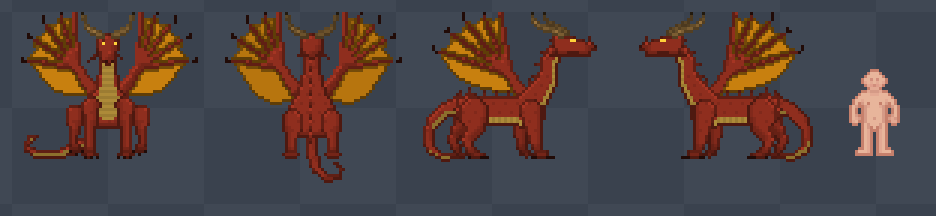
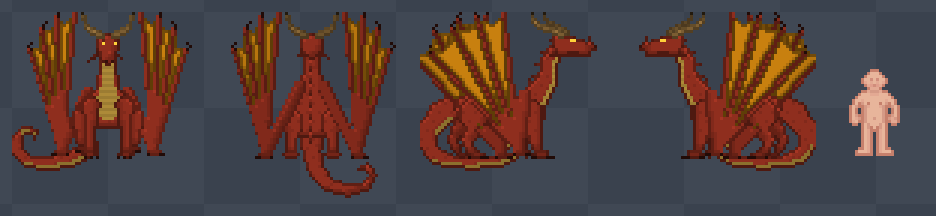
Rework SkyWing wings, front-view hind legs and tail
- Wings now fold the way SkyWings rest: a thick wing arm from the shoulder to a clawed palm
  on the ground, and four finger bones rising from the palm up and back past the hips. The
  membrane sits only between the fingers, so the lobe under the wing is gone.
- The Wings layer now draws over the body and legs (under the head). In side views the near
  wing lies over the flank and the far wing peeks out behind it; in the front view the art
  cuts away whatever the body covers.
- Front view: hind legs tucked behind the forelegs, showing only their outer edge and feet.
- Tail is longer (runs along the ground and curls) and 1.5x thicker.

Changed region(s): [[0.0, 0.0556, 0.5887, 0.9167], [0.7436, 0.0556, 0.8985, 0.8056]]

diff --git a/Tools/_WoF/skywing_sprites.js b/Tools/_WoF/skywing_sprites.js
@@ -237,11 +237,11 @@ const LIMB = {
   handS: () => M().ellipse(26, 47.2, 2.6, 1.4),
   handE_near: () => M().ellipse(40.5, 47.4, 2.7, 1.4),
   handE_far: () => M().ellipse(35.5, 47.4, 2.3, 1.2),
-  legS: () => M().ellipse(21, 35, 3.4, 4.5).chain([[21, 38, 2.4], [20.5, 42, 1.8], [21, 44.5, 1.5]]),
+  legS: () => M().ellipse(22.5, 36, 2.8, 4).chain([[22.8, 39, 2], [23, 43, 1.6]]), // behind the foreleg; only the outer edge shows
   legN: () => M().ellipse(38.5, 37, 3.6, 5).chain([[38.5, 40, 2.6], [39, 44, 2], [39, 46, 1.8]]),
   legE_near: () => M().ellipse(18, 34, 5, 6).chain([[19, 38, 3.2], [15.5, 42.5, 2.2], [17, 46, 1.8]]),
   legE_far: () => M().chain([[14, 37, 3], [11, 42.5, 2], [12.5, 46, 1.6]]),
-  footS: () => M().ellipse(21, 45.8, 2.2, 1.1),
+  footS: () => M().ellipse(23.4, 45.6, 2.1, 1),
   footN: () => M().ellipse(39, 47.5, 2.6, 1.4),
   footE_near: () => M().ellipse(19, 47.6, 2.8, 1.3),
   footE_far: () => M().ellipse(14, 47.6, 2.4, 1.1),
@@ -250,7 +250,7 @@ const CLAWS = {
   handS: [[24, 48], [26, 48], [28, 48]],
   handE_near: [[43, 48], [44, 48], [42, 48]],
   handE_far: [[37, 48], [38, 48]],
-  footS: [[19, 46], [21, 47], [23, 46]],
+  footS: [[21, 46], [22, 46]],
   footE_near: [[21, 48], [22, 48], [20, 48]],
   footE_far: [[16, 48], [17, 48]],
 };
@@ -269,52 +269,79 @@ function limb(kind, side, dir) {
   return limb(kind, side === 'r' ? 'l' : 'r', 'E').mirrored();
 }
 
-// ---- Wings (Wings layer, behind the body). Folded upright: a short arm from the shoulder to the wrist,
-// then five long finger bones fanning up and back, each ending in a hooked claw. The membrane between
-// fingertips is scalloped (pulled in toward the wrist) and its trailing edge runs back down to the hips.
-// Two layers: bone (scale coloured) and membrane.
-function wingSide(sh, wr, tips, trail) {
+// ---- Wings (Wings layer, drawn above the body and legs but under the head). Folded the way SkyWings
+// rest: a thick wing arm runs from the shoulder down to the wrist ("palm"), which rests on the ground with
+// small claws. Four long finger bones rise from the palm, up and back past the hips, each ending in a hooked
+// claw. Membrane fills only the space between the fingers (scalloped at the tips) and ends at the last
+// finger. Two layers: bone (scale coloured) and membrane.
+// Side views: the near wing lies over the flank; the far wing shows behind it, a tone darker.
+// Front view: the wings stand behind the shoulders, so anything the body covers is cut away.
+// Back view: the folded wings lie over the back.
+function wingShape({ sh, palm, tips }, dx = 0, dy = 0) {
+  const mv = ([x, y]) => [x + dx, y + dy];
+  sh = mv(sh); palm = mv(palm); tips = tips.map(mv);
   const bone = M(), mem = M(), claws = [];
-  const poly = [sh, wr, tips[0]];
+  const poly = [palm, tips[0]];
   for (let i = 1; i < tips.length; i++) {
     const a = tips[i - 1], b = tips[i];
-    poly.push([lerp(lerp(a[0], b[0], 0.5), wr[0], 0.1), lerp(lerp(a[1], b[1], 0.5), wr[1], 0.1)], b);
+    poly.push([lerp(lerp(a[0], b[0], 0.5), palm[0], 0.06), lerp(lerp(a[1], b[1], 0.5), palm[1], 0.06)], b);
   }
-  mem.poly([...poly, ...trail]);
-  bone.capsule(...sh, 2.2, ...wr, 1.7);
-  tips.forEach((t, i) => { bone.capsule(...wr, i === 0 ? 1.3 : 0.95, ...t, i === 0 ? 0.65 : 0.5); claws.push([t, [t[0] - wr[0], t[1] - wr[1]]]); });
-  return { bone, mem, claws };
-}
-const WING_E = { sh: [35, 28], wr: [30, 21], tips: [[27, 0.5], [21, 1], [15, 3], [10, 7], [6, 13]], trail: [[9, 18], [14, 23], [21, 26], [28, 27]] };
-const WING_S = { sh: [27, 26], wr: [22, 19], tips: [[21, 0.5], [16, 1], [11, 4], [7, 9], [5, 16]], trail: [[9, 21], [13, 26], [19, 28], [25, 28]] };
-const WING_N = { sh: [27, 26], wr: [22, 19], tips: [[21, 0.5], [16, 1], [11, 4], [7, 9], [5, 16]], trail: [[9, 22], [13, 28], [19, 31], [26, 30]] };
-
-function wingParts(dir) {
-  if (dir === 'W') { const e = wingParts('E'); return { bone: e.bone.mirrored(), mem: e.mem.mirrored() }; }
-  const spec = dir === 'E' ? WING_E : dir === 'S' ? WING_S : WING_N;
-  const s = wingSide(spec.sh, spec.wr, spec.tips, spec.trail);
-  let bone = s.bone, mem = s.mem, claws = s.claws;
-  if (dir !== 'E') {
-    bone = bone.clone().union(s.bone.mirrored()); mem = mem.clone().union(s.mem.mirrored());
-    claws = claws.concat(s.claws.map(([t, d]) => [[N - t[0], t[1]], [-d[0], d[1]]]));
-  }
+  mem.poly(poly);
+  bone.capsule(...sh, 2.4, ...palm, 1.8);          // wing arm
+  bone.ellipse(palm[0], palm[1], 2.2, 1.4);         // palm resting on the ground
+  tips.forEach((t, i) => { bone.capsule(...palm, 1.1, ...t, i === 0 ? 0.8 : 0.72); claws.push([t, [t[0] - palm[0], t[1] - palm[1]]]); });
   mem.minus(bone);
-  const bonePic = shade(bone, { thin: true });
-  for (const [t, d] of claws) claw(bonePic, Math.round(t[0] - 0.5), Math.round(t[1] - 0.5), d[0], d[1], d[0] < 0 ? 1 : -1);
-  return { bone: bonePic, mem };
+  return { bone, mem, claws, palm };
 }
-function wings(dir) {
-  const { bone, mem } = wingParts(dir);
-  const memPic = shade(mem, { flat: true });
-  const boneMask = M(); for (let i = 0; i < N * N; i++) if (bone.v[i] >= 0) boneMask.a[i] = 1;
-  mem.interior().each((x, y) => {
+// The palm sits on the ground (row ~47) behind the near foreleg in side view, outside the legs front and back.
+const WING_E = { sh: [35, 28], palm: [33, 46.6], tips: [[28, 0.5], [19, 2], [11, 6], [4, 14]] };
+const WING_S = { sh: [25.5, 27], palm: [16.5, 46.4], tips: [[21, 0.5], [15, 2], [10, 6], [6, 13]] };
+const WING_N = { sh: [28, 25], palm: [16.5, 47.6], tips: [[21, 0.5], [15, 2], [10, 6], [6, 13]] };
+
+// Everything that stands in front of the wings in the front view.
+function frontOccluder() {
+  const m = torsoMask('S').union(headMask('S'));
+  for (const k of ['armS', 'handS', 'legS', 'footS']) { const l = LIMB[k](); m.union(l).union(l.mirrored()); }
+  return m;
+}
+const maskOfPic = p => { const m = M(); for (let i = 0; i < N * N; i++) if (p.v[i] >= 0) m.a[i] = 1; return m; };
+const clearMask = (p, m) => { m.each((x, y) => p.set(x, y, -1)); return p; };
+
+function wingPics(w, far, hide) {
+  if (hide) { w.bone.minus(hide); w.mem.minus(hide); }
+  const bone = shade(w.bone, { thin: true, far });
+  for (const [t, d] of w.claws) claw(bone, Math.round(t[0] - 0.5), Math.round(t[1] - 0.5), d[0], d[1], d[0] < 0 ? 1 : -1);
+  for (const p of w.palms) { const x = Math.round(p[0] - 0.5), y = Math.round(p[1] - 0.5), s = p[2]; bone.dot([[x + 2 * s, y + 1], [x + 3 * s, y + 1], [x - 2 * s, y + 1]], T.claw); }
+  if (hide) clearMask(bone, hide);
+  const mem = shade(w.mem, { flat: true });
+  const boneMask = maskOfPic(bone);
+  w.mem.interior().each((x, y) => {
     const nearBone = [[1, 0], [-1, 0], [0, 1], [0, -1], [1, 1], [-1, 1]].some(([a, b]) => boneMask.has(x + a, y + b));
-    if (nearBone) memPic.set(x, y, T.base);
-    else if (stepsOut(mem, x, y, 0, 1, 3) <= 1) memPic.set(x, y, 234);
-    else memPic.set(x, y, T.light);
+    mem.set(x, y, nearBone ? T.base : T.light);
   });
-  if (dir === 'N') for (let i = 0; i < N * N; i++) if (memPic.v[i] > T.outlineHi) memPic.v[i] -= 18; // seen from behind
-  return { bone, membrane: memPic };
+  if (far) for (let i = 0; i < N * N; i++) if (mem.v[i] > T.outlineHi) mem.v[i] -= 18;
+  return { bone, membrane: mem };
+}
+// s = which way the palm claws point (+1 = toward +x)
+const withPalms = (w, s) => ({ ...w, palms: [[w.palm[0], w.palm[1], s]] });
+function mirrorShape(w) { return { bone: w.bone.mirrored(), mem: w.mem.mirrored(), claws: w.claws.map(([t, d]) => [[N - t[0], t[1]], [-d[0], d[1]]]), palm: [N - w.palm[0], w.palm[1]] }; }
+
+function wings(dir) {
+  if (dir === 'W') { const e = wings('E'); return { bone: e.bone.mirrored(), membrane: e.membrane.mirrored() }; }
+  if (dir === 'E') {
+    const near = withPalms(wingShape(WING_E), 1), farW = withPalms(wingShape(WING_E, -6, 1), 1);
+    const hide = torsoMask('E').union(headMask('E')).union(near.bone).union(near.mem);
+    const f = wingPics(farW, true, hide), n = wingPics(near, false);
+    return { bone: f.bone.over(n.bone), membrane: f.membrane.over(n.membrane) };
+  }
+  const left = wingShape(dir === 'S' ? WING_S : WING_N), right = mirrorShape(left);
+  const both = {
+    bone: left.bone.clone().union(right.bone), mem: left.mem.clone().union(right.mem),
+    claws: left.claws.concat(right.claws), palms: [[left.palm[0], left.palm[1], -1], [right.palm[0], right.palm[1], 1]],
+  };
+  both.mem.minus(both.bone);
+  if (dir === 'S') return wingPics(both, false, frontOccluder());
+  return wingPics(both, true, headMask('N'));
 }
 
 // ---- Horns (HeadTop): long, curved, sweeping back and then up.
@@ -330,13 +357,15 @@ function horns(dir) {
   return shade(m, { far: dir === 'N' }).dot([[23, 0], [40, 0]], T.claw);
 }
 
-// ---- Tail (Tail layer, behind the body): long, thin, curling at the tip. Scales + underside layers.
+// ---- Tail (Tail layer, behind the body): long and thin, trailing along the ground and curling at the tip. Scales + underside layers.
+const TAIL_THICKNESS = 1.5; // multiplies every tail radius
 function tailMask(dir) {
   if (dir === 'W') return tailMask('E').mirrored();
-  const m = M();
-  if (dir === 'E') return m.chain([[13, 31, 3.4], [8, 33, 2.8], [4, 37, 2.3], [2.5, 42, 1.9], [4, 46.5, 1.6], [8.5, 48.6, 1.3], [12.5, 47.5, 1], [12.6, 44.6, 0.8], [10.3, 43.6, 0.6]]);
-  if (dir === 'S') return m.chain([[24, 44, 2], [16, 47.5, 1.8], [9, 48, 1.5], [5, 45.5, 1.2], [5.8, 42.2, 0.9], [8.6, 41.6, 0.6]]);
-  return m.chain([[32, 40, 2.6], [32, 47, 2.2], [33.5, 52, 1.8], [37, 55.5, 1.4], [41, 55, 1], [42, 52, 0.7], [40, 50.5, 0.5]]);
+  const m = M(), chain = m.chain.bind(m);
+  m.chain = pts => chain(pts.map(([x, y, rad]) => [x, y, Math.max(0.9, rad * TAIL_THICKNESS)]));
+  if (dir === 'E') return m.chain([[13, 31, 3.4], [7, 34, 2.9], [3, 39, 2.4], [2.5, 44, 2], [5, 48, 1.8], [11, 50, 1.6], [19, 50.5, 1.4], [27, 50, 1.2], [32, 48, 1], [32.5, 45, 0.8], [30, 43.8, 0.7], [28.3, 45.3, 0.5]]);
+  if (dir === 'S') return m.chain([[26, 45, 2], [21, 48.5, 1.9], [13, 50.5, 1.7], [6, 50, 1.5], [2, 46.5, 1.3], [2, 42, 1.1], [4.5, 39, 0.9], [7.5, 39.8, 0.7], [7.5, 42.3, 0.5]]);
+  return m.chain([[32, 40, 2.6], [32, 47, 2.3], [33.5, 53, 2], [37.5, 57.5, 1.7], [44, 59.5, 1.4], [50, 58, 1.1], [52.5, 54.5, 0.9], [50.5, 51.5, 0.7], [48, 52.5, 0.5]]);
 }
 function tail(dir) {
   const m = tailMask(dir), pic = shade(m, { scales: true }), under = new Pic();
@@ -404,9 +433,9 @@ const hex = h => [1, 3, 5].map(i => parseInt(h.slice(i, i + 2), 16));
 // Draw order of WoFMobSkyWing's sprite layers (bottom to top), with markings on their category's layer.
 // See Docs/_WoF/DRAGON_SPRITES.md. Second value = which colour tints it in previews and the icon.
 const DRAW = [
-  ['wings_membrane', 'membrane'], ['wings_bone', 'skin'], ['tail', 'skin'], ['tail_underside', 'under'],
+  ['tail', 'skin'], ['tail_underside', 'under'],
   ['hind_far', 'skin'], ['front_far', 'skin'], ['body', 'skin'], ['underbelly', 'belly'],
-  ['hind_near', 'skin'], ['front_near', 'skin'], ['head', 'skin'], ['eyes', 'eyes'], ['horns', 'horns'],
+  ['hind_near', 'skin'], ['front_near', 'skin'], ['wings_membrane', 'membrane'], ['wings_bone', 'skin'], ['head', 'skin'], ['eyes', 'eyes'], ['horns', 'horns'],
 ];
 // Default colours: keep in sync with Resources/Prototypes/_WoF/Species/skywing.yml.
 const COL = { skin: '#c8402a', membrane: '#f39c12', belly: '#f2c14e', horns: '#d4a056', under: '#f2c14e', spines: '#7a1c10', eyes: '#ffd23a' };

diff --git a/Docs/_WoF/DRAGON_SPRITES.md b/Docs/_WoF/DRAGON_SPRITES.md
@@ -57,7 +57,7 @@ Which legs go in which state depends on the direction:
 
 | State | Layer | Coloring |
 |---|---|---|
-| `wings_membrane` | Wings (drawn behind the body) | Wing color (SkyWing default orange `#f39c12`) |
+| `wings_membrane` | Wings (drawn over the body, under the head) | Wing color (SkyWing default orange `#f39c12`) |
 | `wings_bone` | Wings | Follows scale color |
 | `tail` | Tail (behind the body) | Follows scale color |
 | `tail_underside` | Tail | Underside color (default gold `#f2c14e`) |
@@ -68,9 +68,12 @@ Extra options, like other horn shapes, frills, underbelly patterns or SeaWing gl
 
 ## Drawing order (bottom to top)
 
-wings → tail → far hind leg → far front leg → body → near hind leg → near front leg → head → eyes → horns → worn items
+tail → far hind leg → far front leg → body → near hind leg → near front leg → wings → head → eyes → horns → worn items
 
-The order is the same for all four directions. So anything that should look "behind" in one direction has to be drawn so the body covers it. Wings and tail spread out past the body's outline; they don't sit on top of it.
+The order is the same for all four directions, so each frame is drawn to suit it:
+
+- **Tail** is always behind; it spreads out past the body's outline.
+- **Wings** draw over the body. In the side views the near wing lies over the flank and the far wing shows behind it (with the near wing and body cut out of it). In the front view the wings stand behind the shoulders, so the art leaves out every pixel the body, head or legs would cover. In the back view the folded wings lie over the back.
 
 ## Worn items
 
